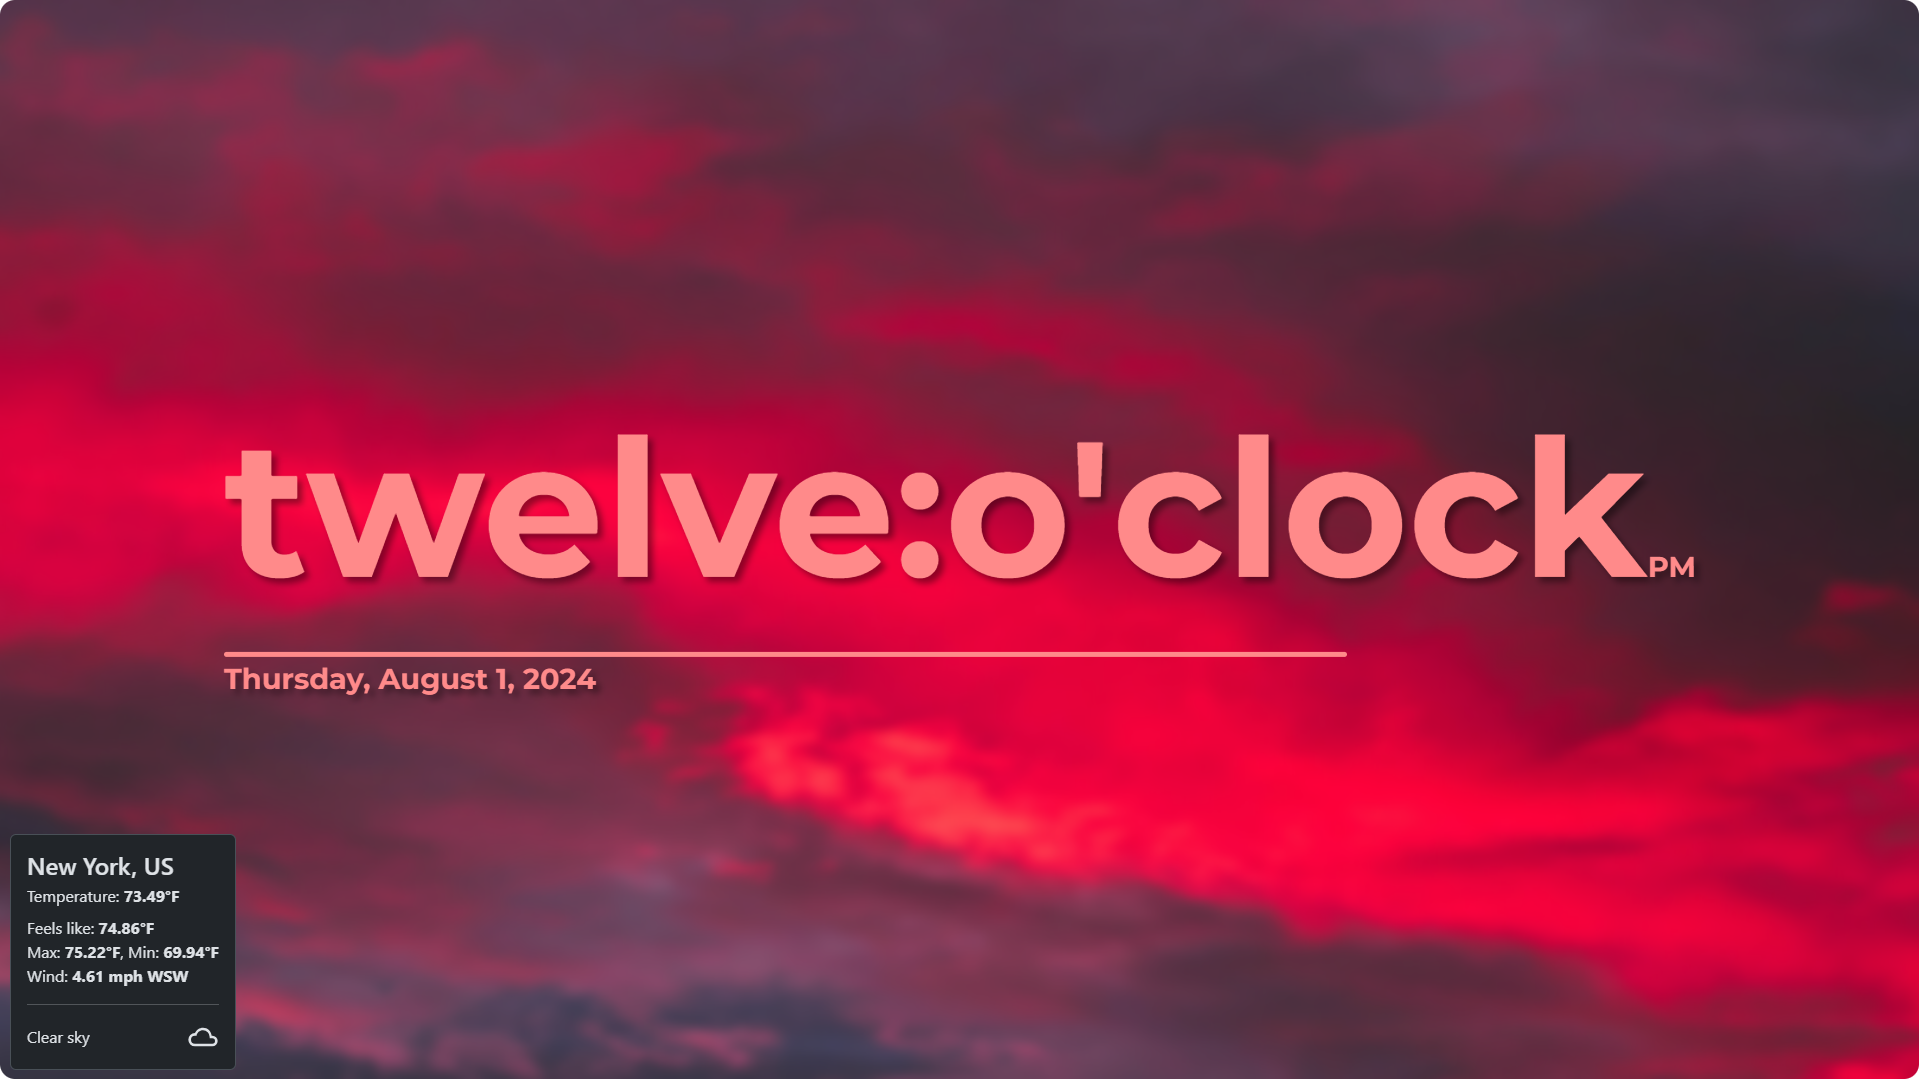
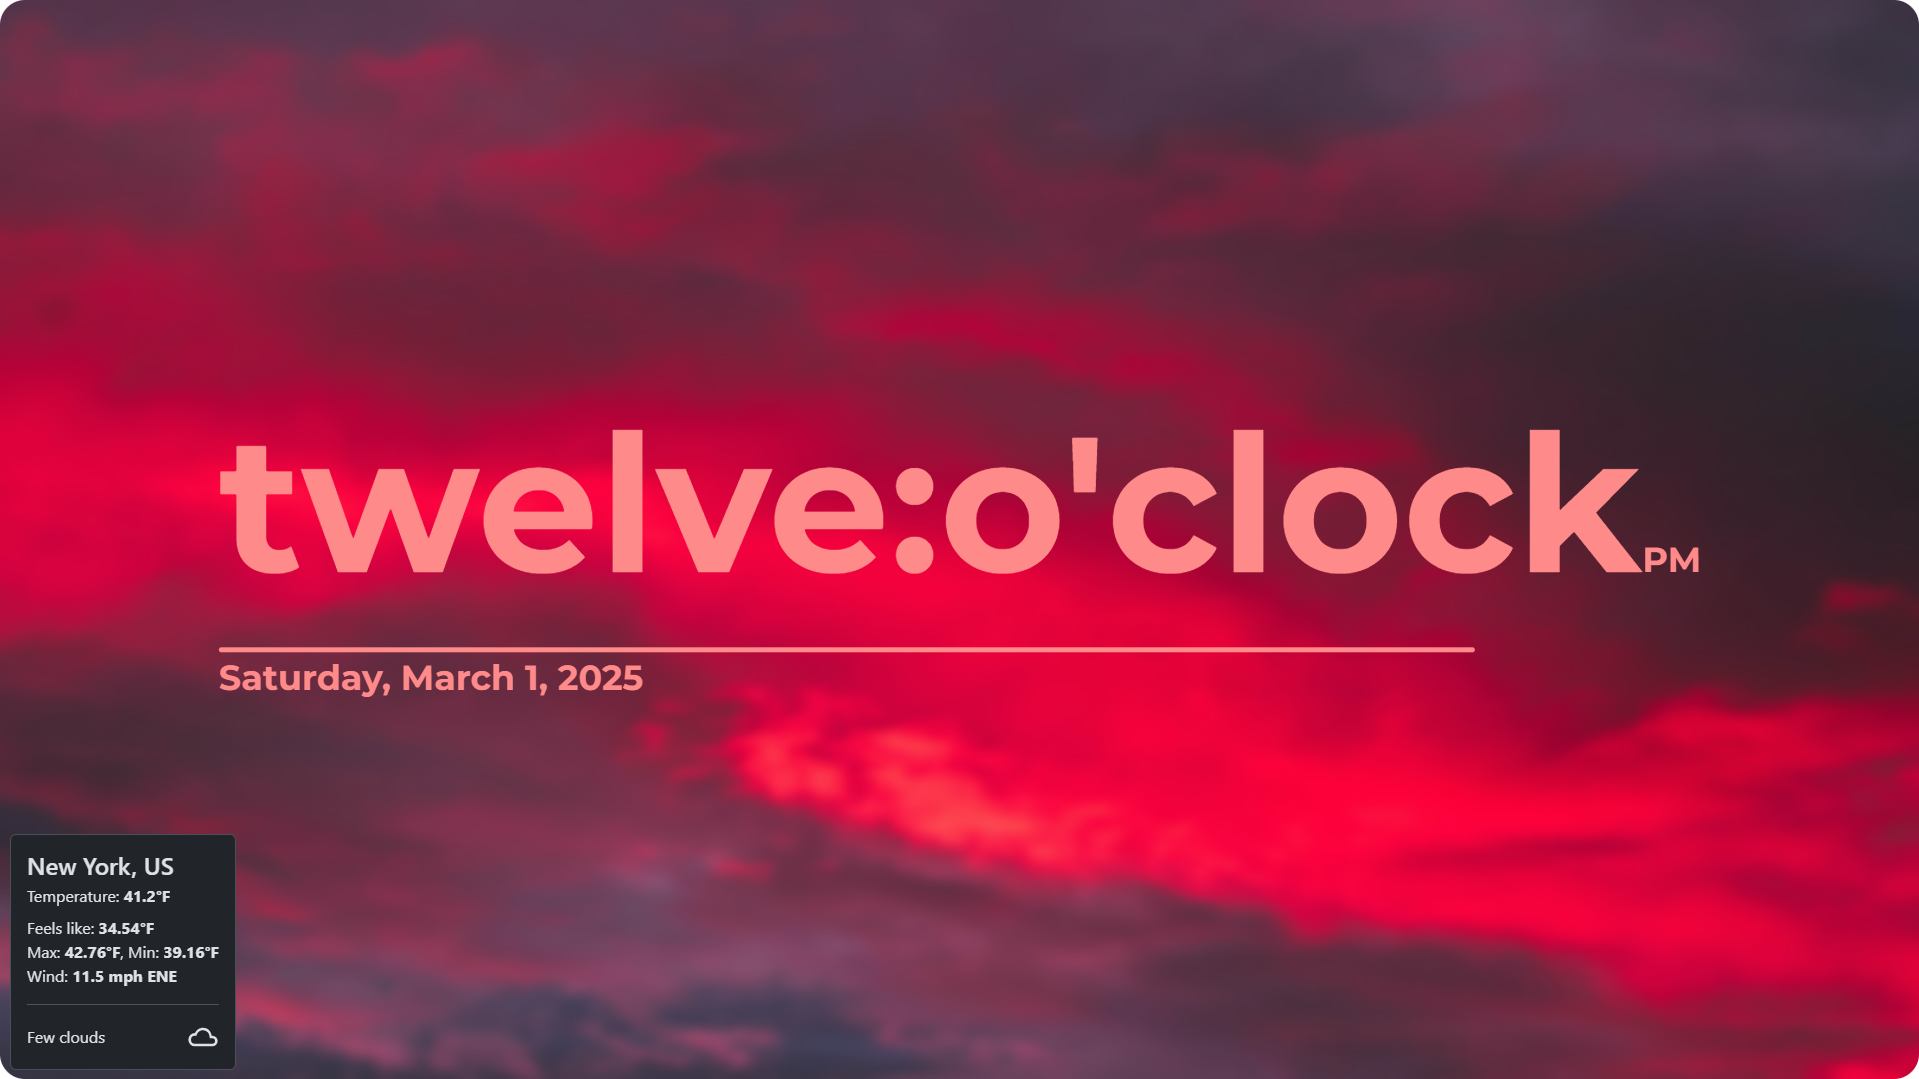
chore: update readme images

diff --git a/webpack.config.js b/webpack.config.js
@@ -15,8 +15,7 @@ const config = {
         main: './src/index.ts',
         styles: './src/css/styles.ts',
         presets: './src/assets/presets.ts',
-        icons: './src/icons/icons.ts',
-        images: './src/assets/images.ts',
+        icons: './src/icons/icons.ts'
     },
     output: {
         path: path.resolve(__dirname, 'dist'),

diff --git a/README.md b/README.md
@@ -22,8 +22,7 @@ Firefox and other non-Chromium browsers may experience inconsistent clock update
 ### Menu options pane
  ![A screenshot of the menu options panel. The "Date and Time" section is opened.](/src/assets/images/menu.png)  
 ### Customization example
- ![A screenshot of the main web clock page with many customizations applied, such as custom font, background image, date format, and weather widget.](/src/assets/images/customizable.png)  
- > Like this look? Download [the preset](/src/assets/onlinewebclock-preset.json)!
+ ![A screenshot of the main web clock page with many customizations applied, such as custom font, background image, date format, and weather widget.](/src/assets/images/customizable.png)
  
 # Acknowledgements (OSS)
 - **Axios**  ([GitHub](https://github.com/axios/axios)): Licensed under MIT License  
